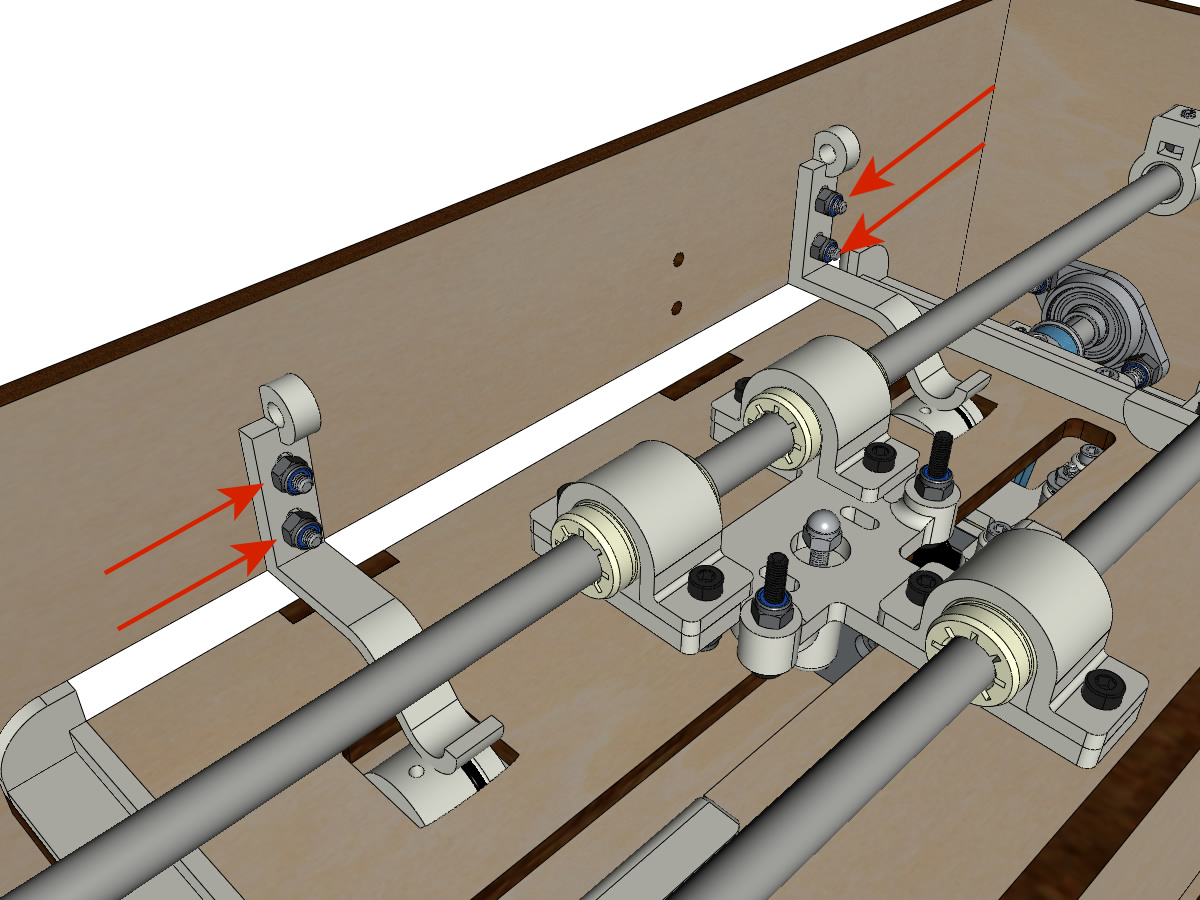
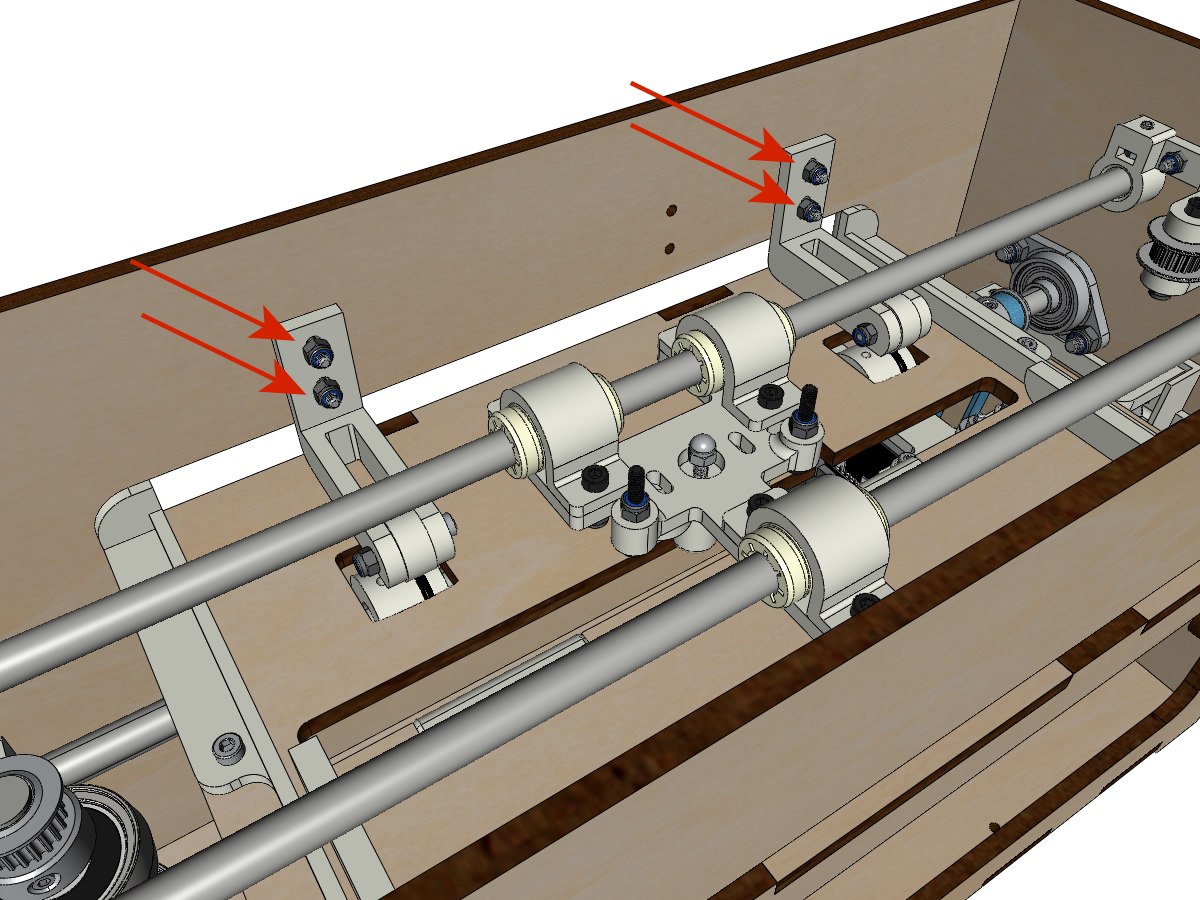
DOC

diff --git a/docs/assemblage.rst b/docs/assemblage.rst
@@ -766,12 +766,33 @@ Matériel :
        :align: center
 
 
-Montage des presse-papiers :
-------------------------------
+Montage des presse-papiers (étape 1) :
+----------------------------------------
 
 Matériel :
 
   * **Pièce(s) imprimée(s) en 3D** : 2 CLIPBOARD 
+  * **Pièce(s) imprimée(s) en 3D** : 2 CLIPBOARD_wheel 
+  * 2 vis M3-20
+  * 4 écrous M3 NYL
+
+
+* Assembler les CLIPBOARD avec CLIPBOARD_wheel à l'aide des vis M3-20 et des écrous M3 NYL. Serrer la vis en laissant la possibilité à la roue de tourner.
+
+.. image :: ./IMG/BrailleRAP-V5.113.jpg
+       :align: center
+
+
+.. image :: ./IMG/BrailleRAP-V5.114.jpg
+       :align: center
+
+
+Montage des presse-papiers (étape 2) :
+----------------------------------------
+
+Matériel :
+
+  * 2 CLIPBOARD montés à l'étape 1
   * 4 vis M3-14
   * 4 rondelles M3 moyennes
   * 4 écrous M3 NYL
